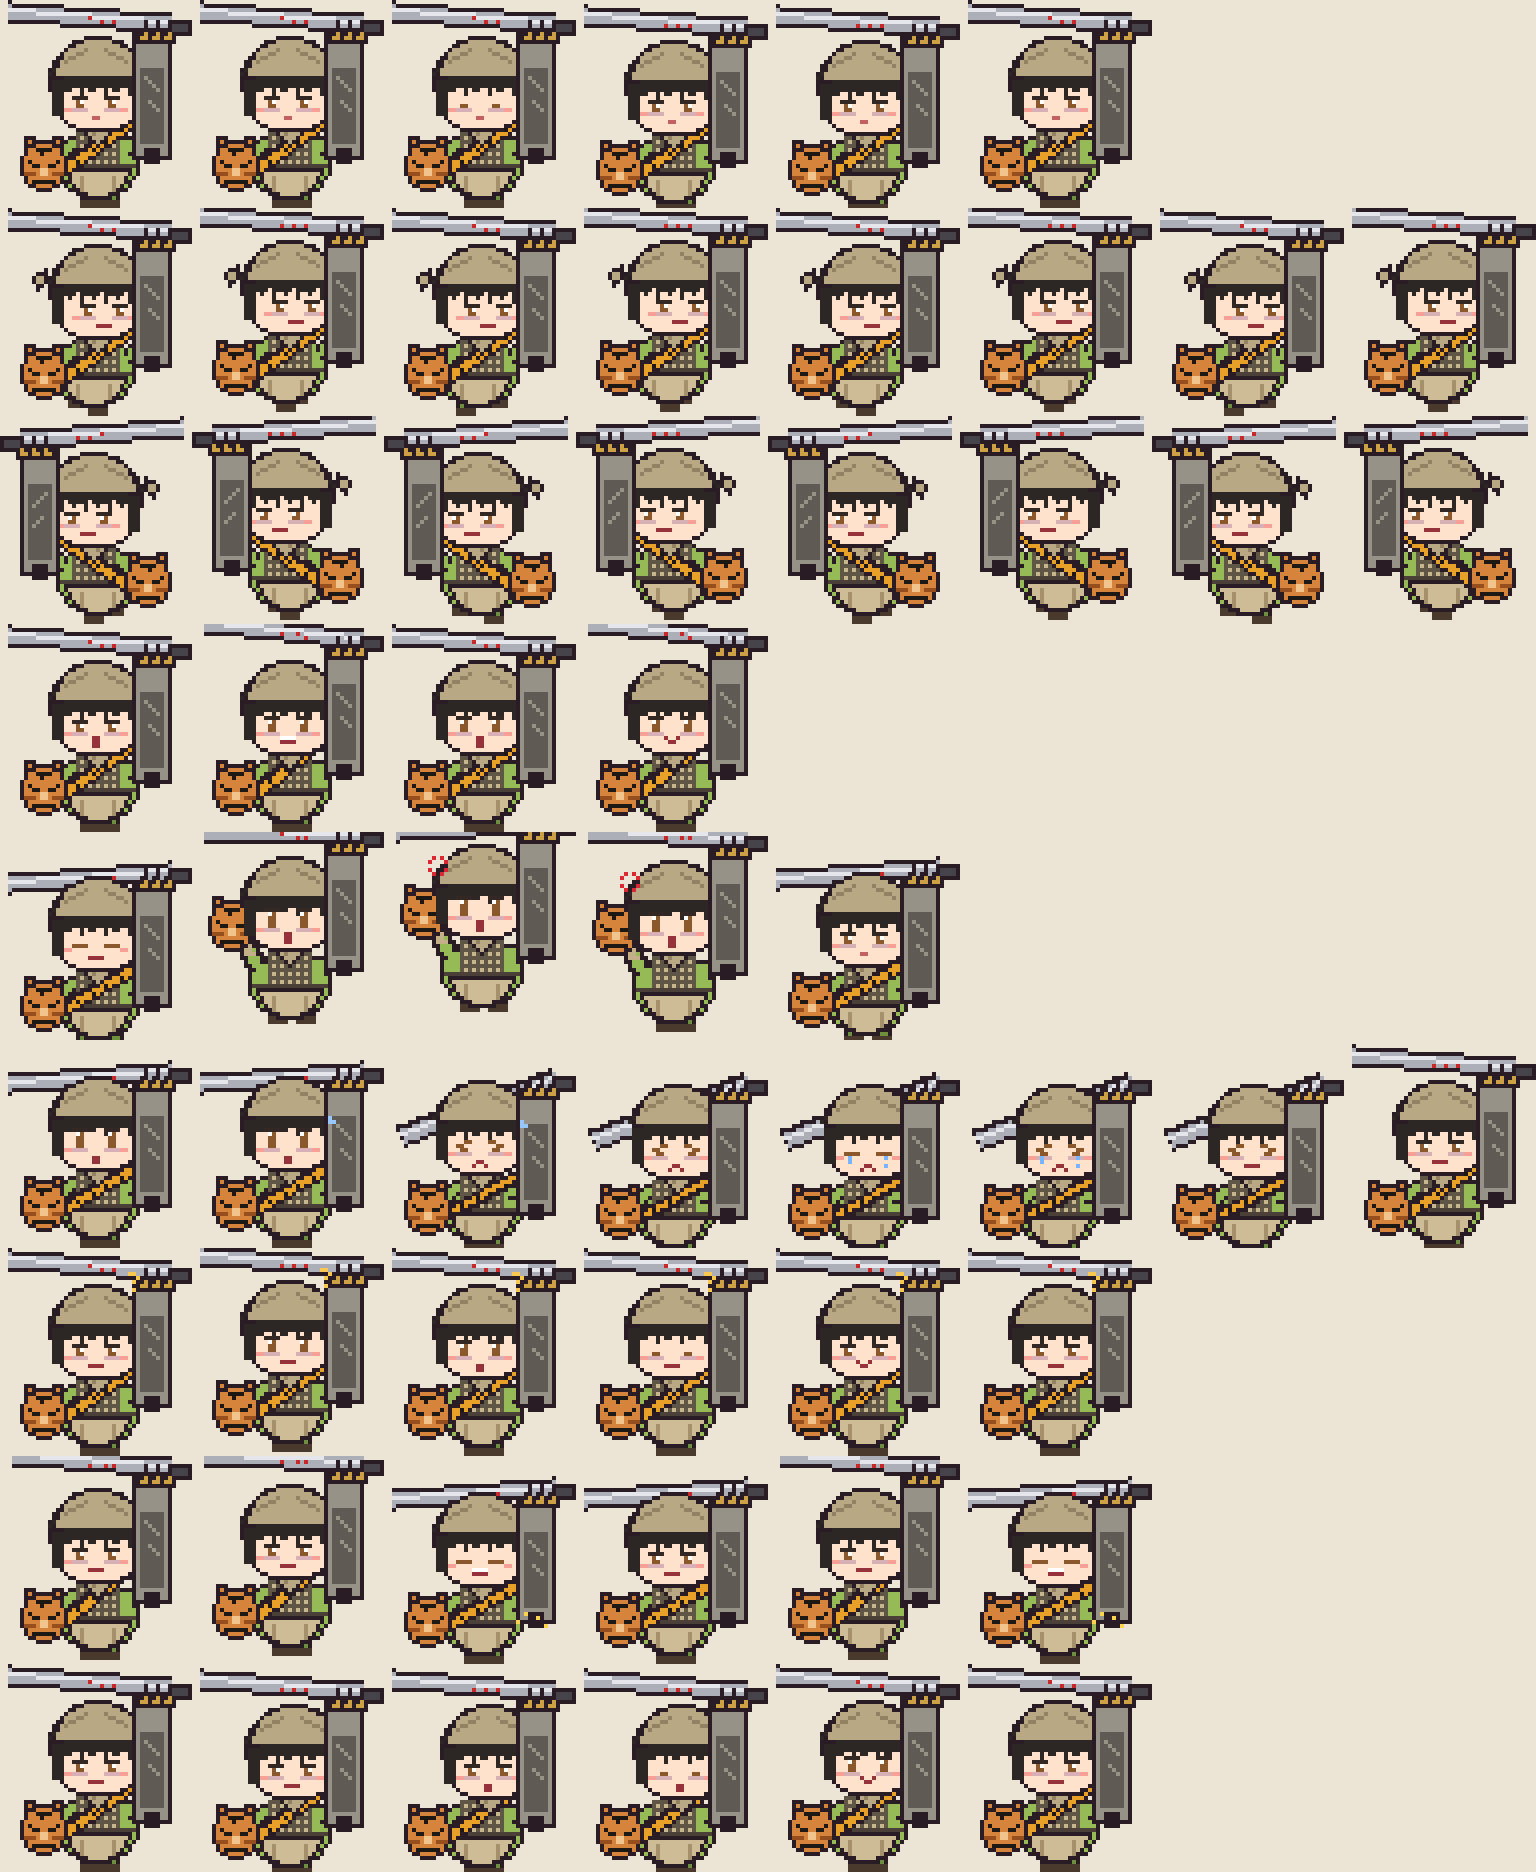
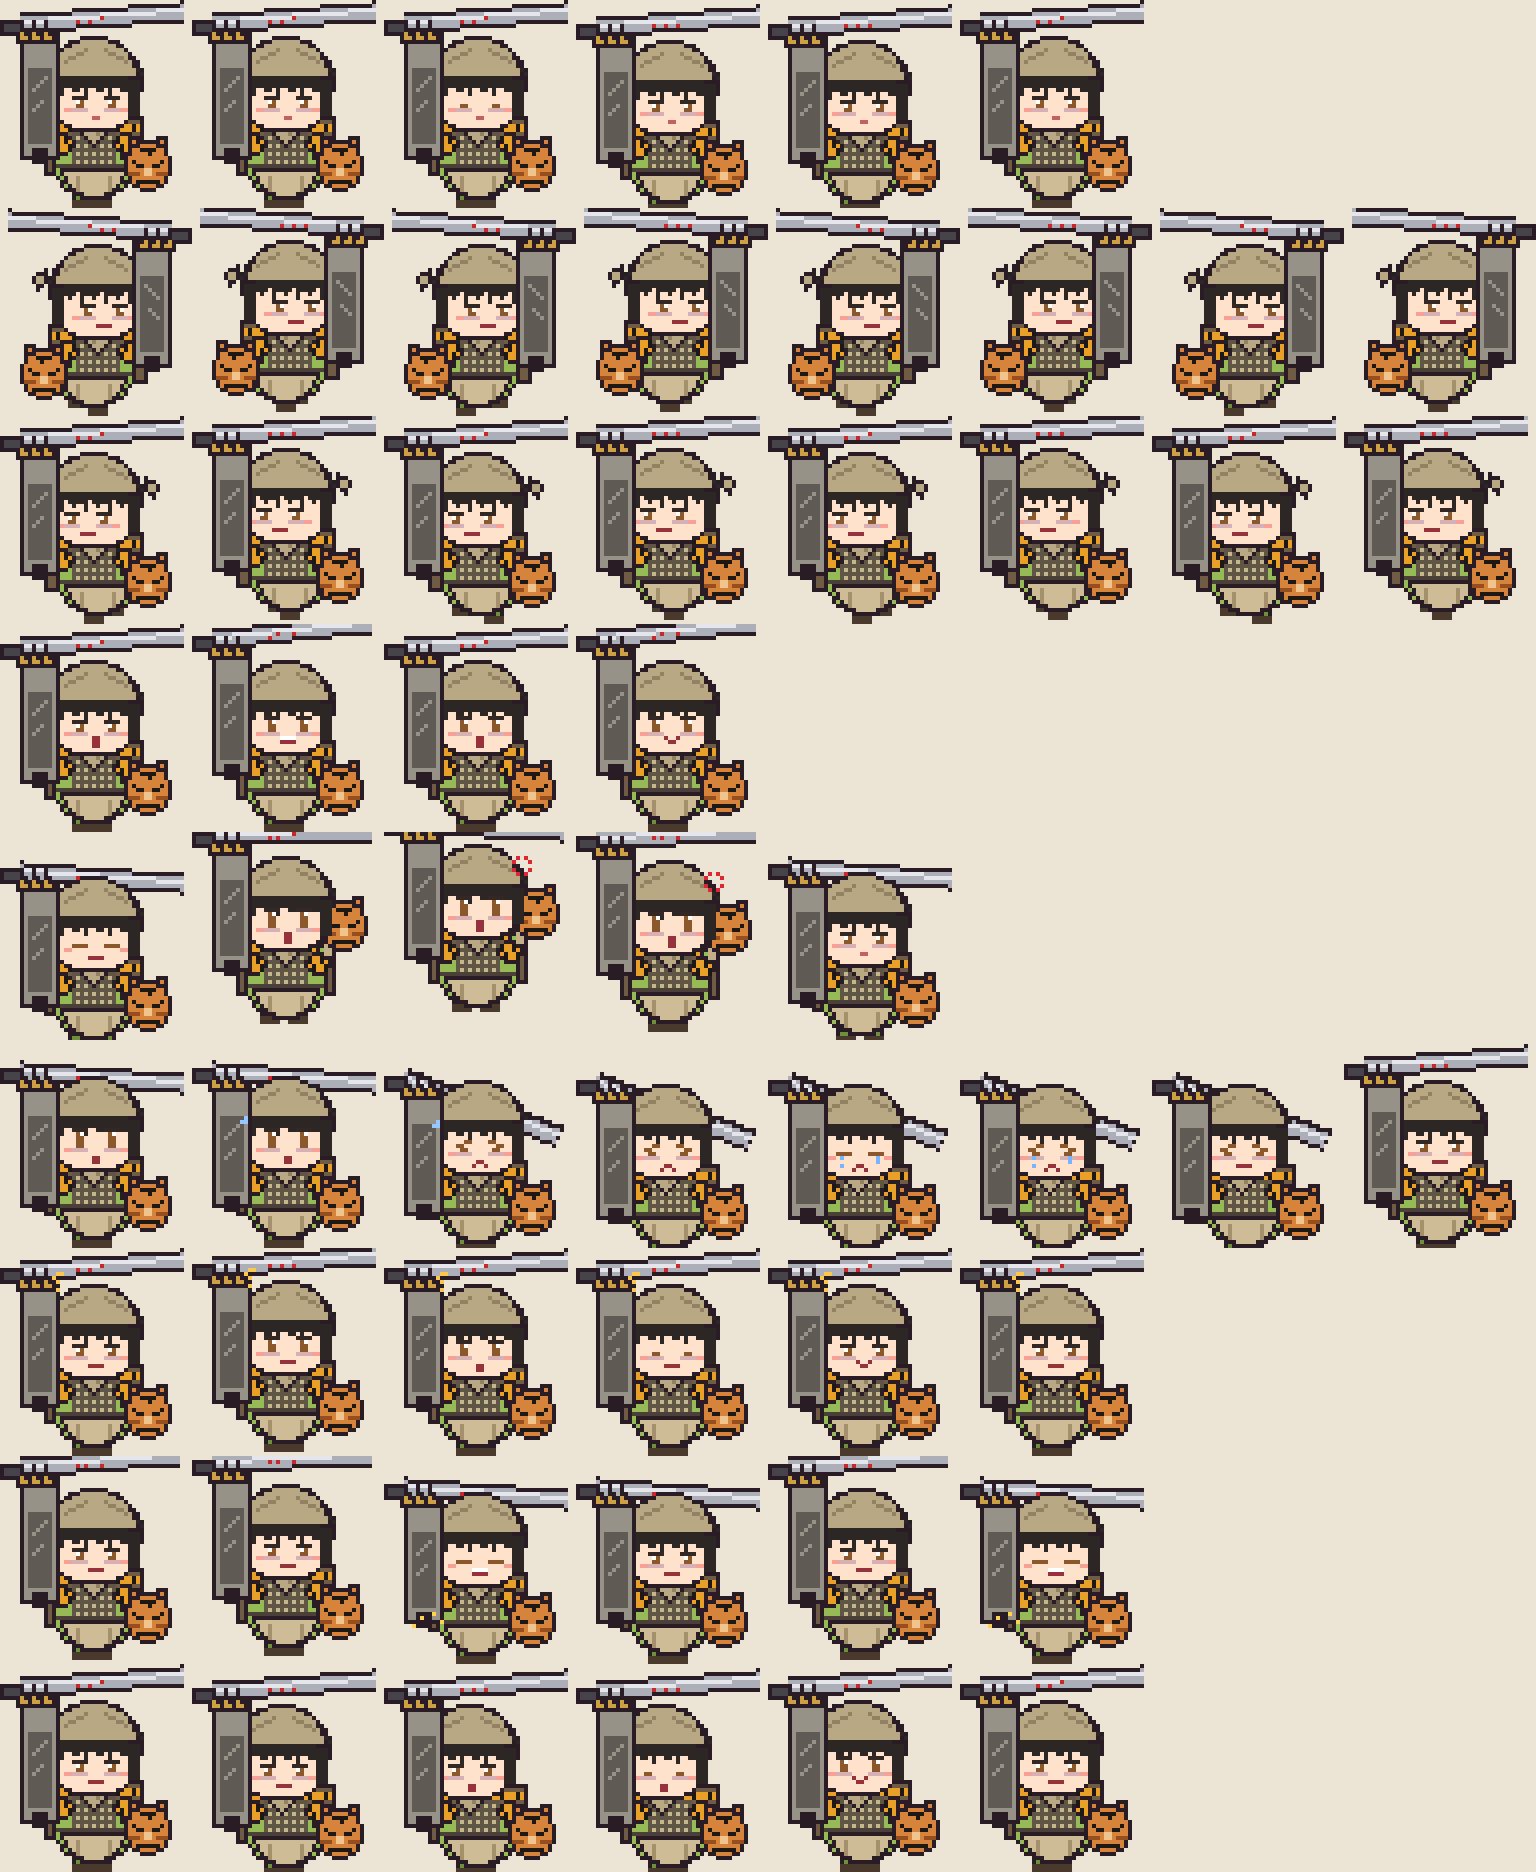
裂骨魔改成右手持巨劍、左手持虎頭盾，背後以虎紋肩甲與背包相連，拿掉胸前背帶
Claude-Session: https://claude.ai/code/session_014Ug96dnPv181rpAqSNBU9C

diff --git a/mortal-pets/tools/build_sprites.py b/mortal-pets/tools/build_sprites.py
@@ -90,7 +90,7 @@ CHARACTERS = {
 CHARACTERS["xiaozhu-battle"] = {
     **CHARACTERS["xiaozhu"],
     "displayName": "小竹・裂骨魔",
-    "description": "郁竹的戰鬥裝束：鐵網護甲，右臂是扛著紅紋巨劍的機關臂，虎紋背帶連著左手的虎頭盾。平常睏睏的，掄起兵器就是「裂骨魔」。（活俠傳同人）",
+    "description": "郁竹的戰鬥裝束：鐵網護甲、虎紋肩甲，右臂是扛著紅紋巨劍的機關臂，左手拿虎頭盾，兩者在背後靠背包相連。平常睏睏的，掄起兵器就是「裂骨魔」。（活俠傳同人）",
     "battle": True,
 }
 
@@ -220,6 +220,14 @@ def draw_frame(cid, pose):
         leg(20 + dx, hip_y, base_bottom)
         leg(27 + dx, hip_y, base_bottom)
 
+    if battle:
+        # 背包與虎紋背架：從背後把機關臂和虎頭盾連在一起，只露出邊緣
+        p.rect(12 + dx, 27 + dy, 36 + dx, 41 + dy, OUTLINE)
+        p.rect(13 + dx, 28 + dy, 35 + dx, 40 + dy, (112, 92, 70, 255))
+        p.line([(13 + dx, 29 + dy), (35 + dx, 29 + dy)], (232, 160, 40, 255), 2)
+        for k in range(14, 36, 4):
+            p.px(k + dx, 29 + dy, (30, 24, 20, 255)); p.px(k + dx, 30 + dy, (30, 24, 20, 255))
+
     # 身體（裙裝）
     flare = -1 if face_r else 0
     if rnd:
@@ -297,14 +305,11 @@ def draw_frame(cid, pose):
     hand_r = arm(sx_r, ar, 1)
 
     if battle:
-        # 虎紋背帶：從右邊機關臂斜過胸前，連到左手的虎頭盾
-        p.line([(33 + dx, 30 + rig_y), (16 + dx, hand_l[1])], OUTLINE, 4)
-        p.line([(33 + dx, 30 + rig_y), (16 + dx, hand_l[1])], (232, 160, 40, 255), 2)
-        for k in range(1, 5):
-            t = k / 5
-            px_ = round(33 + dx + (16 - 33) * t)
-            py_ = round(30 + rig_y + (hand_l[1] - 30 - rig_y) * t)
-            p.px(px_, py_, (30, 24, 20, 255))
+        # 肩甲：虎紋護肩蓋在兩邊肩膀上（與背後的背包相連）
+        for shx in (sx_l, sx_r):
+            p.ell(shx - 3, sy - 3, shx + 3, sy + 2, (232, 160, 40, 255), OUTLINE)
+            p.line([(shx - 1, sy - 2), (shx - 2, sy + 1)], (30, 24, 20, 255))
+            p.line([(shx + 2, sy - 2), (shx + 1, sy + 1)], (30, 24, 20, 255))
         # 虎頭盾
         sx0, sy0 = hand_l[0] - 7, hand_l[1] - 6
         orange, dark, stripe = (214, 132, 60, 255), (30, 24, 20, 255), (150, 78, 30, 255)
@@ -713,6 +718,11 @@ def render_rows(cid):
         assert len(frames) == len(durations), (cid, state, len(frames))
         out[state] = frames
     out["running-left"] = mirror_row(out["running-right"])
+    if CHARACTERS[cid].get("battle"):
+        # 畫的時候武器在畫面右邊；小竹是右手持武器、左手持盾，
+        # 正面看武器應在畫面左邊，所以整格鏡像，左右跑的兩列對調
+        out = {k: mirror_row(v) for k, v in out.items()}
+        out["running-right"], out["running-left"] = out["running-left"], out["running-right"]
     return out
 
 
